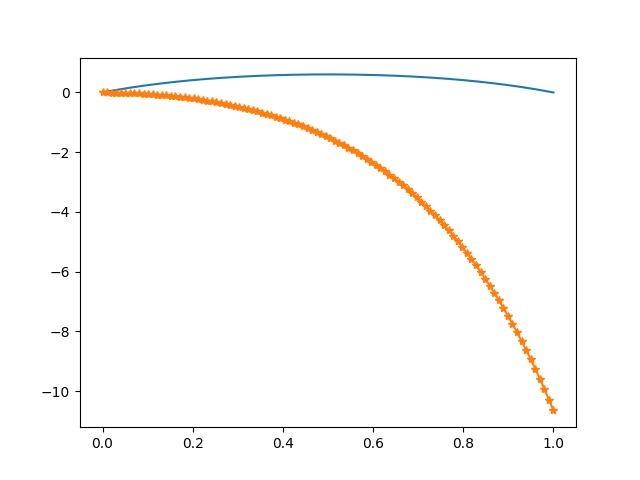
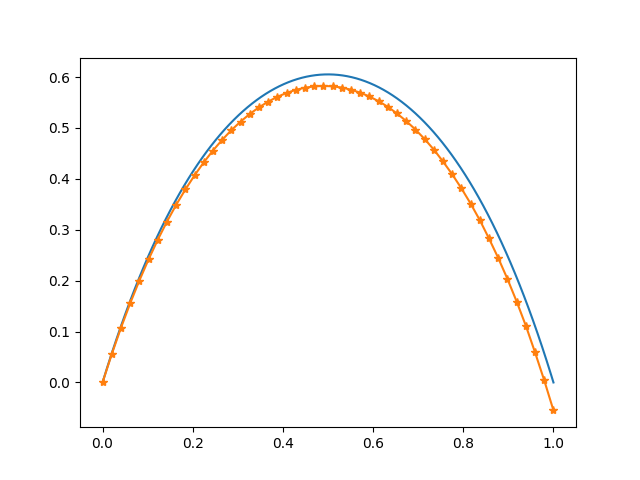
deu certo, porém as cores do gráfico estão erradas

diff --git a/Lista2.py b/Lista2.py
@@ -5,61 +5,141 @@
 from math import e
 from cmath import sqrt
 import matplotlib.pyplot as plt
+import matplotlib.lines as mlines
 import numpy as np
 
-""" def TDMASolve(a, b, c, d): 
-    #a,b,c são as diagonais 
-    #d é onde vamos armazenar a resposta
+def normaMaximo(x):
+    size = len(x)
+    maximo = np.abs(x[0])   
     
-    n = len(d)
-    nmax = n #??
+    for i in range(size):
+        temp = np.abs(x[i])        
+        if(temp > maximo):
+            maximo = temp
+            
+    return maximo
 
-    # Modifica o primeiro coeficiente de cada linha
-    c[0] /= b[0]
-    d[0] /= b[0]
+def distanciaMaximo(x1, x2):
+    if(len(x1) != len(x2)):
+        print("O tamanho dos vetores x1 e x2 precisa ser o mesmo")
+        return 0
+        
+    size = len(x1)
+    dist = abs(x1[0] - x2[0])  
     
-    # Modifica os coeficientes de cada linha
-    for i in range(1, nmax):
-        ptemp = b[i] - (a[i] * c[i-1]) 
-        c[i] /= ptemp
-        d[i] = (d[i] - a[i] * d[i-1])/ptemp
+    for i in range(size):
+        temp = abs(x1[i] - x2[i])
+        if(temp > dist):
+            dist = temp
+            
+    return dist
 
-    #Substituição de volta
-    x = [0 for i in range(nmax)]
-    x[-1] = d[-1]
-    for i in range(-2,- nmax-1,-1): 
-        x[i] = d[i] - c[i] * x[i+1] 
+def calculaErro(x_prox, x_atual):
+    return distanciaMaximo(x_prox, x_atual)/normaMaximo(x_prox)
 
-    return x """
 
-def solExata(epslon):
+def Tomas(a, b, c, d):
+    ''' Resolve Ax = d onde A e uma matriz tridiagonal composta pelos vetores a, b, c
+		a - subdiagonal
+        	b - diagonal principal
+		c - superdiagonal.
+	Retorna x
+    '''
+    #print('diagonais: ', a, b, c, d)
+    n = len(d) # len(d) == len(b)
+    c_ = [ c[0] / b[0] ]
+    d_ = [ d[0] / b[0] ]
+    
+    for i in range(1, n):
+        aux = b[i] - c_[i-1]*a[i-1]
+        if i < n-1:
+            c_.append( c[i] / aux )
+        d_.append( (d[i] - d_[i-1]*a[i-1])/aux )
+    
+    # Substituicao de volta
+    x = [d_[-1]]
+    for i in range(n-2, -1, -1):
+        x = [ d_[i] - c_[i]*x[0] ] + x
+    
+    return x
+
+def F(x, epslon):
     t_ini = 0
     t_final = 1
     c2 =  (pow(e, (-1/sqrt(epslon))) - 1) / (pow(e, (1/sqrt(epslon))) - pow(e, (-1/sqrt(epslon))))
     c1 = - 1 - c2
-    x = np.linspace(t_ini, t_final, 200)
     ux = c1* pow(e, (-x/sqrt(epslon)))  +  c2*pow(e, (x/sqrt(epslon))) + 1
-    plt.plot( x, ux, label = "Solução exata")
-    #plt.show()
+    return ux
 
 
-def difFinita(epslon, h, npoints):
-    U = np.zeros(npoints)
-    U[0] = 0
-    U[1] = 0
+def difFinita(epslon, h, npart):
     
-
-    for i in range(1 , npoints-1):
-        U[i+1] = ((U[i]-1)*(h*h))/epslon + 2*U[i] - U[i-1] 
-
-    x = np.float16(np.linspace(0, 1, npoints))
+    ordem = npart -1
+    diagonalSuperior = []
+    diagonalPrincipal = []
+    diagonalInferior = []
+    termoIndependente = []
+    solApprox = []
+    tempoExata = []
+    tempo = []
+    solExata = []
+    erro = []
     
-    plt.plot(x, U, '-*')
-    plt.show()
+    for i in range(ordem - 1):
+        diagonalSuperior.append(epslon * -1.0)
+        diagonalInferior.append(epslon * -1.0)
+    
+    for i in range(ordem):
+        diagonalPrincipal.append(2 * epslon + (h*h))
+        termoIndependente.append(h*h)
+    
+    particoes_exata = 100
+    
+    he = 1/float(particoes_exata-1)
+    for i in range(particoes_exata):
+        dhe = he * i
+        tempoExata.append(dhe)
+        solExata.append(F(dhe, epslon))
+
+    for i in range(npart + 1):
+        dh = h * i
+        tempo.append(dh)
+    
+    solApprox = Tomas(diagonalInferior, diagonalPrincipal, diagonalSuperior, termoIndependente)
+    
+    solApprox.insert(0, 0)
+    solApprox.append(0)
+
+    partErro = len(solApprox)
+    hErro = 1/float(partErro-1)
+    solExataErro = []
+    
+    for i in range (partErro):
+        dh = hErro * i
+        solExataErro.append(F(dh, epslon))
+        
+    erroNormaMax = calculaErro(solExataErro, solApprox)
+    print(erro)
+    print("Erro Norma Max: ", repr(erroNormaMax))
+    
+    
+    plt.plot(tempoExata, solExata, 'b--')
+    plt.plot(tempo, solApprox, '*--')
+    
+    plt.ylabel(u"Valor de u(h)")
+    plt.xlabel(u"Valor de h, " + str(npart) + u" partições")
+    
+    se_line = mlines.Line2D([], [], color='blue', marker='', markersize=0, label=u'Solução Exata')
+    ac_line = mlines.Line2D([], [], color='red', marker='', markersize=0, label=u'Solução Aprox.')
+    
+    plt.legend(handles=[se_line, ac_line])
+    
+    plt.title("Metodos de Resolucao")
+    plt.show() 
+
 
 def main():
-    solExata(0.1)   
-    difFinita(0.1, 1/50, 50)
-
+    # solExata(0.1)   
+    difFinita(0.1, 1/40, 41)
 
 main()
